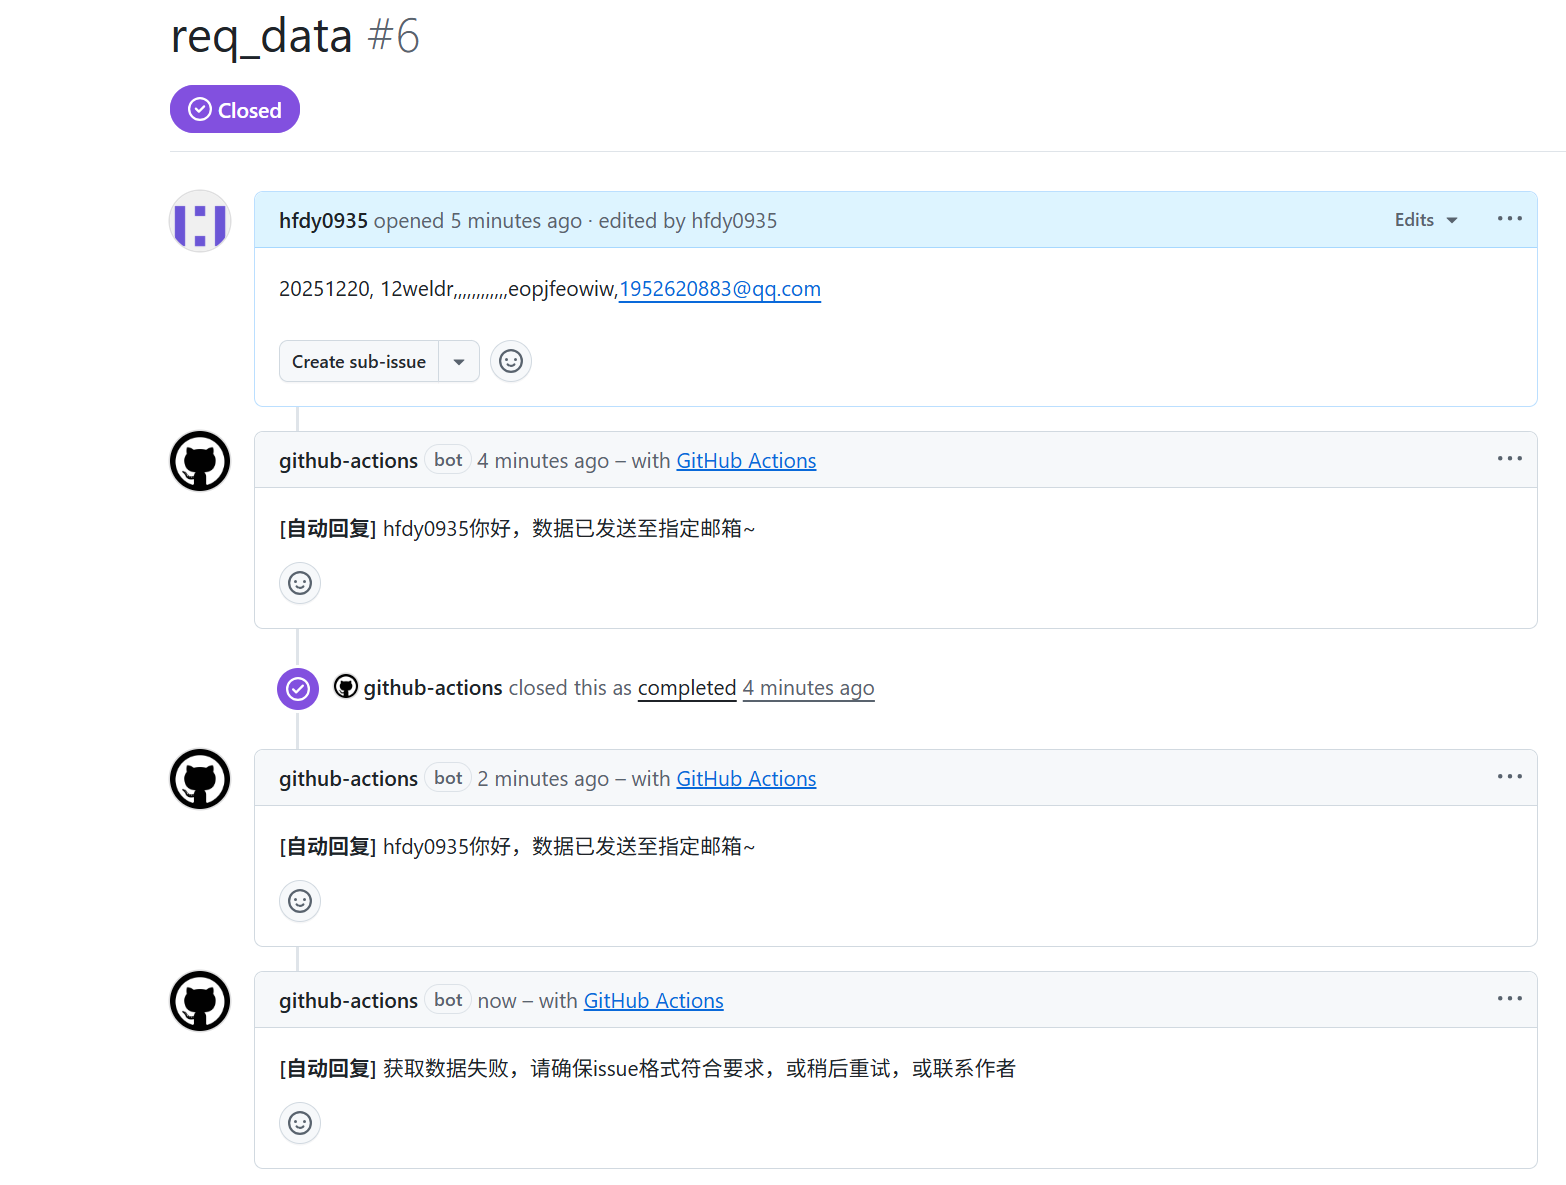
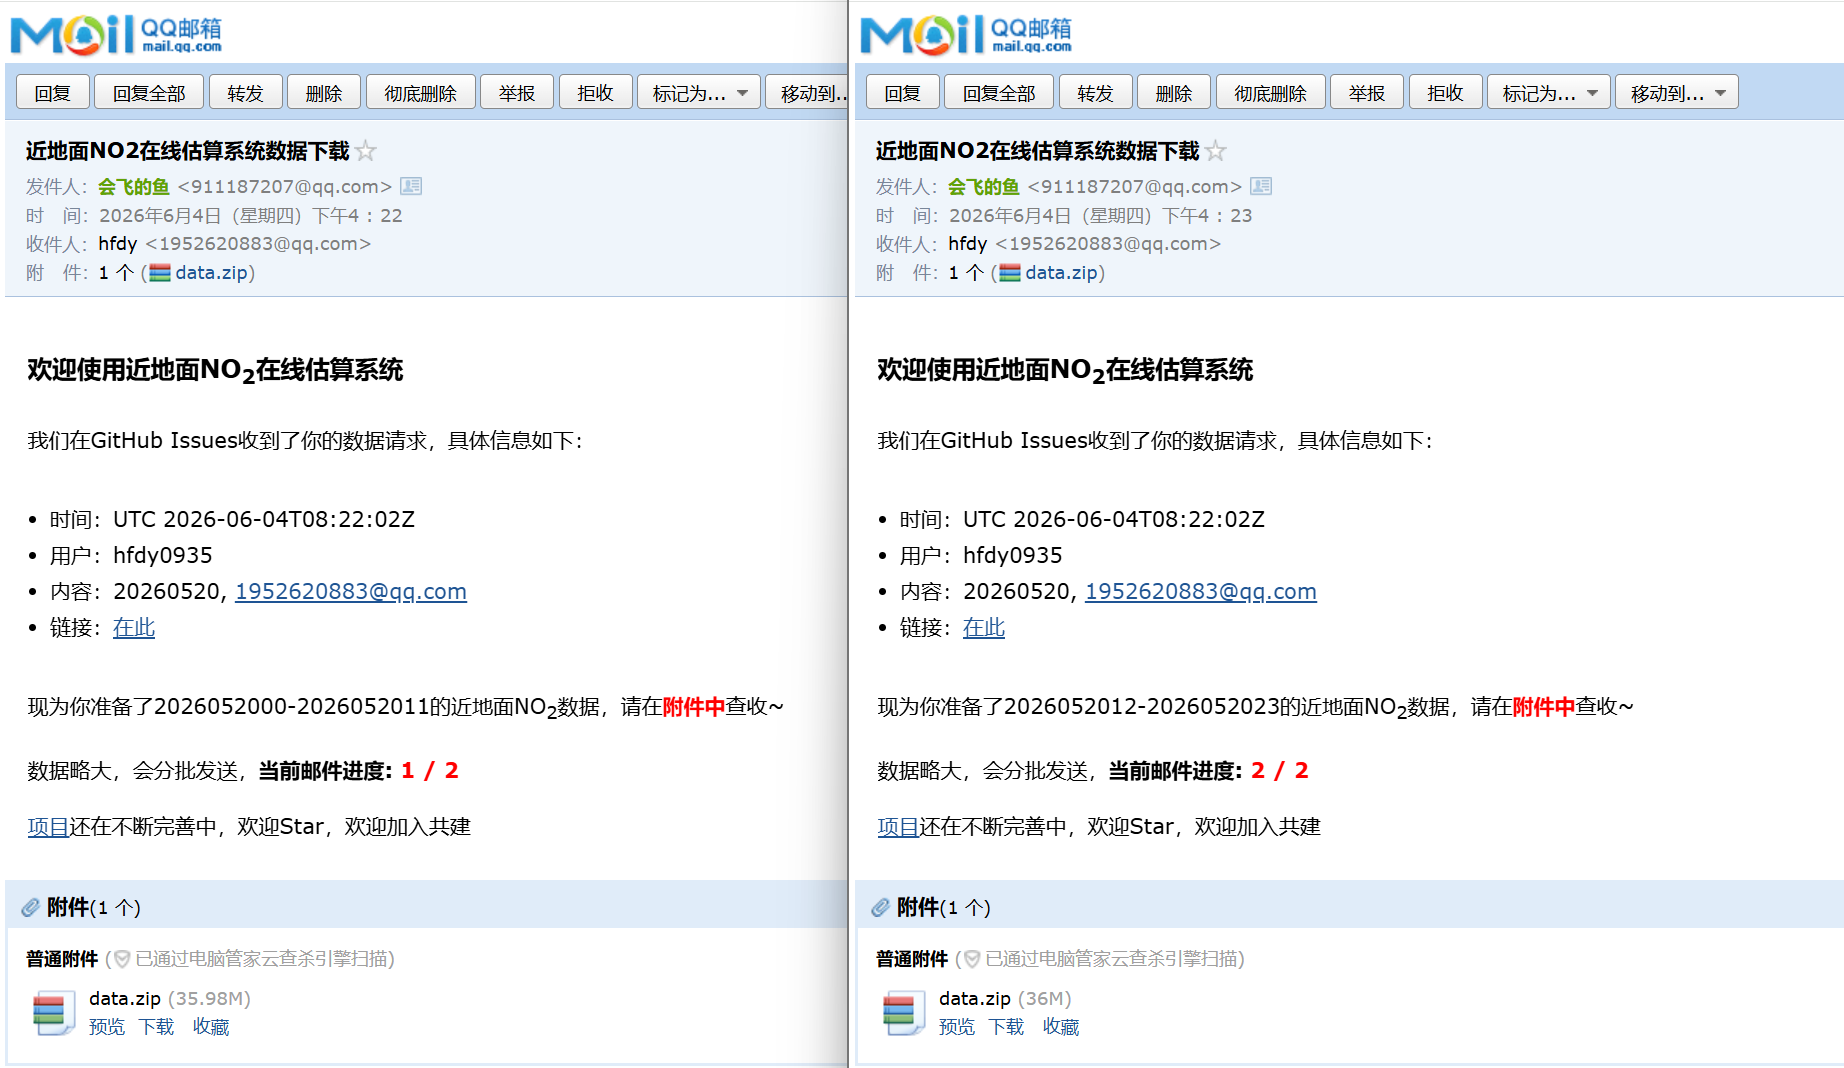
docs: update README.md

Changed region(s): [[0.0, 0.0, 1.0, 1.0], [0.9808, 0.8034, 1.0, 0.8961], [0.8889, 0.1545, 0.9195, 0.2163]]

diff --git a/README.md b/README.md
@@ -36,8 +36,8 @@
 
 |      流程       |              截图               |
 | :-------------: | :-----------------------------: |
-| `issue`自动回复 | ![alt text](assets/image-1.png) |
-|      邮件       | ![alt text](assets/image-2.png) |
+| `issue`自动回复 |  ![alt text](assets/image.png)  |
+|      邮件       | ![alt text](assets/image-1.png) |
 
 ## 5. 其他
 
